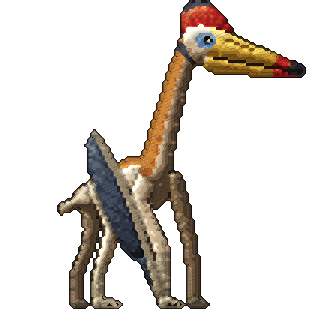
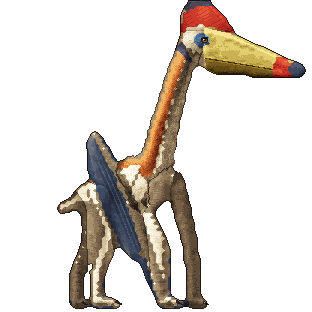
Standing Quetzalcoatlus painted in HD; pterosaur lower beaks
The slate membrane folded up its side in pleats, light through its free
edge; the long neck furred, cream in front and orange behind; the red
crest lit as a plate under its dark crown; the white face with its blue
patch round the eye; the yellow beak over a darker lower beak, tipped
red. The pterosaurs' lower beaks are their drawings' olive again
(BeakSpec.Lower).

The quetzal's head now turns about a cut across the neck below it, so
drawing it back no longer smears the root of the beak.

Changed region(s): [[0.1731, 0.0, 0.9808, 1.0]]

diff --git a/internal/dinopaint/ptero.go b/internal/dinopaint/ptero.go
@@ -49,6 +49,7 @@ func pteroFly() *Species {
 			{Name: "tan", Seeds: []uint32{0xb08a58, 0x8e6840, 0x96754b, 0x86725a, 0x5a4a3a, 0x4c3f31}, Ramp: pteroTan},
 			{Name: "crest", Seeds: []uint32{0xe0541e, 0xf88a2e, 0xffc050, 0x6e2418}, Ramp: pteroCrest, Region: crest},
 			{Name: "beak", Seeds: []uint32{0xf8e69a, 0x6e5420, 0x9c7a2c, 0xffe27a}, Ramp: pteroBeak, Relief: 0.3, Region: beak},
+			{Name: "beakLow", Ramp: pteroBeakLow, Relief: 0.3, Region: Inter(beak, Below(29, 28.05, 41, 28.55)), Over: true, Only: []string{"beak"}},
 		},
 		Recolor: []Recolor{
 			{Region: Union(farWing, nearWing), From: []string{"cream", "tan"}, To: "membrane"}, // the leading edge is painted as bone
@@ -89,7 +90,7 @@ func pteroFlyDetails(farBone, nearBone []float64, farWing, nearWing, crest SDF) 
 		p.Plane(PlaneSpec{Region: crest, Mat: []string{"crest"}, Tilt: 1.1, Angle: 0.08, Gap: 0.9, Lines: 0.06,
 			FromX: 26.5, FromY: 23.5, Fall: 0.03, Seed: 9})
 		p.Beak(BeakSpec{Mat: "beak", Ridge: []float64{28.8, 26.7, 34, 26.8, 40.6, 28.0}, Mouth: []float64{29, 28.05, 34.5, 28.15, 40.4, 28.5},
-			Gloss: 0.2, LowerShadow: 0.32, GrainSeed: 7})
+			Gloss: 0.2, LowerShadow: 0.05, Lower: "beakLow", GrainSeed: 7})
 		p.Eye(EyeSpec{X: 27.4, Y: 27.9, R: 0.55, Iris: pteroEye, Lid: 0.15, Squint: 1.1})
 	}
 }
@@ -148,6 +149,7 @@ func quetzalFly() *Species {
 			{Name: "crown", Seeds: []uint32{0x34323c}, Ramp: quetzalSlate},
 			{Name: "beak", Seeds: []uint32{0xfbe694, 0xeecb5a, 0xd2a436, 0xa87a22, 0x7a5216, 0xffe27a}, Ramp: pteroBeak, Relief: 0.3, Region: beak, Over: true,
 				Only: []string{"cream", "taupe", "orange", "wing"}},
+			{Name: "beakLow", Ramp: pteroBeakLow, Relief: 0.3, Region: Inter(beak, Below(58, 46.1, 83, 46.8)), Over: true, Only: []string{"beak", "cream", "taupe", "orange"}},
 		},
 		Recolor: []Recolor{
 			{Region: Union(farWing, nearWing), From: []string{"cream", "taupe", "orange"}, To: "wing"}, // the leading edge is painted as bone
@@ -181,7 +183,7 @@ func quetzalFly() *Species {
 			p.Plane(PlaneSpec{Region: crest, Mat: []string{"red", "crown"}, Tilt: 0.8, Angle: 0.1, Gap: 1.0, Lines: 0.06,
 				FromX: 57, FromY: 40, Fall: 0.03, Seed: 11})
 			p.Beak(BeakSpec{Mat: "beak", Ridge: []float64{57.6, 43.1, 66, 43.2, 75, 43.9, 82.6, 46.1}, Mouth: []float64{58, 46.1, 68, 46.2, 77, 46.4, 82, 46.7},
-				Gloss: 0.22, LowerShadow: 0.3, GrainSeed: 9})
+				Gloss: 0.22, LowerShadow: 0.05, Lower: "beakLow", GrainSeed: 9})
 			p.Eye(EyeSpec{X: 57, Y: 46.6, R: 0.7, Iris: pteroEye, Lid: 0.15, Squint: 1.1})
 		},
 	}
@@ -222,6 +224,7 @@ func pteroPerch() *Species {
 				Only: []string{"cream", "tan", "grey"}},
 			{Name: "beak", Seeds: []uint32{0xf8e69a, 0xe8c860, 0xc8a240, 0x9c7a2c, 0x6e5420, 0xffd84a}, Ramp: pteroBeak, Relief: 0.3, Region: beak, Over: true,
 				Only: []string{"cream", "tan", "grey"}},
+			{Name: "beakLow", Ramp: pteroBeakLow, Relief: 0.3, Region: Inter(beak, Below(41.6, 13.4, 55, 14.6)), Over: true, Only: []string{"beak", "cream", "tan", "grey"}},
 		},
 		Recolor: []Recolor{
 			{Region: wing, From: []string{"tan", "cream"}, To: "membrane"},                 // the bones are painted again
@@ -260,11 +263,108 @@ func pteroPerch() *Species {
 			p.Plane(PlaneSpec{Region: crest, Mat: []string{"crest"}, Tilt: 0.9, Angle: -0.72, Gap: 1.0, Lines: 0.06,
 				FromX: 37.5, FromY: 8.5, Fall: 0.05, Seed: 15})
 			p.Beak(BeakSpec{Mat: "beak", Ridge: []float64{41.8, 8.8, 46, 10.3, 51, 11.9, 55.4, 14.2}, Mouth: []float64{41.6, 13.4, 47, 14.2, 54.4, 14.6},
-				Gloss: 0.22, LowerShadow: 0.4, GrainSeed: 11})
+				Gloss: 0.22, LowerShadow: 0.05, Lower: "beakLow", GrainSeed: 11})
 			p.Eye(EyeSpec{X: 40.5, Y: 11.3, R: 0.75, Iris: []uint32{0x5a3a08, 0x8e600c, 0xc89216, 0xf0c22e, 0xffda54, 0xffec96}, Lid: 0.18, Squint: 1.15})
 			// The claws of the feet and the hand on the ground.
 			for _, c := range [][4]float64{{26.2, 37.1, 27.7, 37.7}, {28.2, 36.6, 29.6, 37.3}, {39.2, 37.2, 40.6, 37.8}, {37.6, 37.4, 38.6, 38.2}} {
 				p.Claw(c[0], c[1], c[2], c[3], 0.55, 0.15, anzuClaws)
+			}
+		},
+	}
+}
+
+// dinos/quetzal.png, 104 x 104: Quetzalcoatlus on the ground, side on,
+// facing right, as tall as a giraffe: walking on its hind feet and the
+// knuckles of its folded wings, the slate membrane folded up along its
+// side, a long furred neck, cream in front and orange behind, the red
+// crest and its dark crown, a white face with a blue patch round the eye,
+// and the great yellow beak tipped red. Its rig is "quetzal" in
+// internal/client/dinorigs.go: four legs that lean whole from row 86
+// (columns 22-29, 30-40, 49-61, 62-71), the neck bending about (50, 55)
+// and the head about (63, 16), the beak opening about (71.4, 19.6) along
+// the line to (100.5, 24.7).
+
+func init() { Register(quetzal()) }
+
+var quetzalBlue = []uint32{0x1e2838, 0x2a3a52, 0x38506e, 0x4a668a, 0x5e80a4, 0x7698ba, 0x92b2cc, 0xb0cade}
+
+var pteroBeakLow = []uint32{0x1c1408, 0x2a1e0a, 0x3a2a0e, 0x4c3812, 0x604816, 0x765a1c, 0x8c6e24, 0xa2842e}
+
+func quetzal() *Species {
+	farFore := Union(Cone(60, 64, 2.4, 62.6, 82, 1.9), Cone(62.6, 82, 1.9, 64, 99, 1.6), Cone(63.5, 100.5, 1.3, 68.5, 101, 0.8))
+	farHind := Union(Cone(25, 71, 2.4, 25.5, 86, 1.9), Cone(25.5, 86, 1.9, 25.4, 99, 1.7), Cone(25, 100.5, 1.4, 28.2, 101, 0.9))
+	body := Blend(2,
+		Ellipse(44.5, 63, 10.5, 6.6, 0),
+		Cone(46, 58, 4.4, 53, 38, 3.2),
+		Cone(53, 38, 3.2, 61, 19, 2.6),
+		Ellipse(64.5, 13.5, 4.6, 4.2, 0),
+	)
+	wing := Poly(29.5, 45.5, 31.5, 44.5, 34.5, 49, 38, 56, 41.5, 62, 45, 70, 48.5, 79, 50.5, 88, 50.4, 96, 47.5, 96, 44.5, 88, 40, 80, 36, 73, 33, 64, 31, 56, 29.4, 50)
+	nearHind := Union(Cone(33, 65, 3.3, 32.6, 84, 2.3), Cone(32.6, 84, 2.3, 32.3, 98, 1.9), Cone(32.4, 100, 1.5, 39.4, 100.6, 0.9))
+	nearFore := Union(Cone(52.5, 62, 3.4, 51.8, 80, 2.8), Cone(51.8, 80, 2.8, 53, 97, 2.5), Cone(53, 99.5, 2, 59.6, 100.6, 1.0))
+	crest := Poly(59, 2.6, 62, 0.8, 66.5, 0.4, 70, 2.6, 74, 6.4, 76, 9.8, 73.6, 10.8, 66, 10.2, 60.4, 10.4, 59.2, 7)
+	beak := Poly(68, 9.2, 76, 11, 84, 14, 92, 17.6, 98, 20, 103.6, 23, 103.4, 25.6, 96, 27, 84, 26.6, 74, 25.6, 69, 23, 67.6, 17)
+	return &Species{
+		Name:        "quetzal",
+		GuideDetail: 0.4,
+		Ink:         30,
+		Materials: []Material{
+			{Name: "wing", Seeds: []uint32{0x2a3a4e, 0x313842, 0x333b48, 0x3f4754, 0x424c5c, 0x46505e, 0x555f6a, 0x5a6678, 0x2e3540, 0x2f3644, 0x252a35, 0x212630, 0x20242f, 0x242932},
+				Ramp: quetzalWing, Relief: 0.05},
+			{Name: "blue", Seeds: []uint32{0x5c7ea4, 0x7a8898, 0x86a8c8, 0x5f6a77}, Ramp: quetzalBlue},
+			{Name: "cream", Seeds: []uint32{0xfbf3df, 0xe9dabb, 0xd8caa8, 0xcdb594, 0xb8a888, 0xb0aa9c, 0xa39e91}, Ramp: pteroCream},
+			{Name: "taupe", Seeds: []uint32{0xa6896a, 0x978d76, 0x978e7a, 0x94846a, 0x907f68, 0x8c8370, 0x857660, 0x81765f, 0x7b6d59, 0x6e604c, 0x685c4a,
+				0x605645, 0x5d5243, 0x564c3e, 0x4d4335, 0x4a4034, 0xa39983, 0x7a6044, 0x4e3c2a, 0x4f3e2c, 0x493a29}, Ramp: quetzalTaupe},
+			{Name: "orange", Seeds: []uint32{0xcf873c, 0xae6228, 0x915e2a, 0x875827, 0x86451e}, Ramp: quetzalOrng},
+			{Name: "red", Seeds: []uint32{0xe85236, 0xf88a5c, 0xc22a22, 0xc3452d, 0xa3231d, 0x90181a, 0x791416, 0x5e0e12, 0x4f0c0f, 0xd0744d}, Ramp: quetzalRed},
+			{Name: "crown", Seeds: []uint32{0x34323c, 0x4c4a56}, Ramp: quetzalSlate},
+			{Name: "beak", Seeds: []uint32{0xfbe694, 0xfff0a0, 0xeecb5a, 0xd2a436, 0xa87a22, 0x7a5216}, Ramp: pteroBeak, Relief: 0.3, Region: beak, Over: true,
+				Only: []string{"cream", "taupe", "orange", "blue"}},
+			{Name: "beakLow", Ramp: pteroBeakLow, Relief: 0.3, Region: Inter(beak, Below(71.4, 19.9, 104, 25.4)), Over: true,
+				Only: []string{"beak", "cream", "taupe", "orange"}},
+			{Name: "patch", Ramp: quetzalBlue, Region: Ellipse(67.2, 13.3, 2.7, 2.1, 0), Over: true, Only: []string{"cream", "taupe", "beak", "blue"}},
+		},
+		Recolor: []Recolor{
+			{Region: Circle(68.2, 13.3, 1.3), From: []string{"beak", "cream", "taupe"}, To: "blue"}, // the eye is painted again
+			{Region: Poly(0, 30, 104, 30, 104, 104, 0, 104), From: []string{"crown", "blue"}, To: "wing"},
+		},
+		Parts: []Part{
+			{Name: "farFore", Shape: farFore, Far: true, Round: 1.8, Soft: 0.6, Scale: 0.6},
+			{Name: "farHind", Shape: farHind, Far: true, Round: 1.8, Soft: 0.6, Scale: 0.6},
+			{Name: "body", Shape: body, Round: 4.2, Soft: 0.8, Muscles: []Muscle{
+				Mu(45, 62, 7, 4.5, 0, 0.9),       // the chest
+				Mu(52, 40, 2.4, 9, 0.35, 0.6),    // the neck
+				Mu(64.6, 12.6, 3.2, 2.6, 0, 0.6), // the head
+			}},
+			{Name: "crest", Shape: crest, Round: 1.2, Soft: 0.5, Scale: 0.6},
+			{Name: "beak", Shape: beak, Round: 1.6, Soft: 0.5, Scale: 0.5},
+			{Name: "wing", Shape: wing, Round: 2.6, Soft: 0.8, Scale: 0.8, Muscles: []Muscle{Mu(37, 62, 3, 9, -0.45, 0.7)}},
+			{Name: "nearHind", Shape: nearHind, Round: 2, Soft: 0.6, Scale: 0.6, Muscles: []Muscle{Mu(33, 68, 2.4, 3.4, 0, 0.6)}},
+			{Name: "nearFore", Shape: nearFore, Round: 2.2, Soft: 0.6, Scale: 0.6, Muscles: []Muscle{Mu(52.4, 66, 2.6, 4, 0, 0.6)}},
+		},
+		Skin: Skin{Flank: 1.1, Back: 1.3, Belly: 1.0, BackDepth: 1, BellyDepth: 1, Relief: 0.6, Seed: 67},
+		Folds: []Fold{
+			{Pts: []float64{30.5, 50, 37.5, 66, 45.5, 86}, N: 3, DX: 1.2, DY: -0.4, Depth: 1.0}, // the folded membrane's pleats
+			{Pts: []float64{25, 88, 27, 88}, N: 4, DY: 3, Depth: 0.6},                           // the legs' scales, in rings
+			{Pts: []float64{31, 88, 34, 88}, N: 4, DY: 3, Depth: 0.6},
+			{Pts: []float64{50.5, 88, 55.5, 88}, N: 4, DY: 3, Depth: 0.6},
+		},
+		Details: func(p *Painter) {
+			p.Plumage(&Plumage{Seed: 37, Edge: 0.35, Tracts: []Tract{
+				{Name: "fur", Region: Poly(36, 55, 46, 50, 52, 30, 58.5, 17, 63, 19, 60, 34, 58, 52, 61, 62, 56, 70, 36, 70), Parts: []string{"body"},
+					Flow: Along(61.5, 17, 56, 30, 51.5, 42, 47.5, 55, 42, 64, 36, 68), Len: 1.5, Wid: 0.65, Hair: true, Relief: 0.8, Fluff: 0.3, Snap: true},
+			}})
+			p.Membrane(MembraneSpec{Region: wing, Mat: []string{"wing"},
+				Fibres: Along(48, 95, 41, 76, 34, 59, 30.4, 46), Gap: 1.0, Fibre: 0.05, Flat: 0.2,
+				Glow: 0.45, GlowW: 1.6, GlowRamp: quetzalGlow, Free: Poly(20, 40, 33, 40, 46, 96, 20, 96),
+				Seed: 17})
+			p.Plane(PlaneSpec{Region: crest, Mat: []string{"red", "crown"}, Tilt: 0.7, Angle: -0.5, Gap: 1.2, Lines: 0.06,
+				FromX: 68, FromY: 4, Fall: 0.025, Seed: 19})
+			p.Beak(BeakSpec{Mat: "beak", Ridge: []float64{68.5, 9.6, 76, 11.6, 84, 14.8, 92, 18.4, 101, 22.6}, Mouth: []float64{71.4, 19.9, 86, 22.3, 100, 24.8},
+				Gloss: 0.24, LowerShadow: 0.1, Lower: "beakLow", GrainSeed: 13})
+			p.Eye(EyeSpec{X: 68.2, Y: 13.3, R: 0.85, Iris: pteroEye, Lid: 0.18, Squint: 1.15})
+			for _, c := range [][4]float64{{27.6, 100.8, 29.2, 101.6}, {38.8, 100.6, 40.6, 101.4}, {59, 100.6, 60.8, 101.4}, {68, 100.8, 69.6, 101.6}} {
+				p.Claw(c[0], c[1], c[2], c[3], 0.6, 0.15, anzuClaws)
 			}
 		},
 	}

diff --git a/internal/dinopaint/beak.go b/internal/dinopaint/beak.go
@@ -16,13 +16,17 @@ type BeakSpec struct {
 	TipDark     float64 // how much darker the tip is (0: 0.12)
 	GrainSeed   uint32
 	LowerShadow float64 // how much darker the lower beak is (0: 0.08)
+	Lower       string  // the lower beak's own material, if it has one
 }
 
 // Beak paints keratin over the lit beak: a gloss along the ridge, fine
 // grain running to the tip, the mouth's line dark with the lower beak's
 // lit edge under it, a darker tip, and the nostril.
 func (p *Painter) Beak(b BeakSpec) {
-	m := p.MatID(b.Mat)
+	m, lowM := p.MatID(b.Mat), -2
+	if b.Lower != "" {
+		lowM = p.MatID(b.Lower)
+	}
 	gloss := b.Gloss
 	if gloss == 0 {
 		gloss = 0.22
@@ -40,7 +44,7 @@ func (p *Painter) Beak(b BeakSpec) {
 	for py := 0; py < p.H; py++ {
 		for px := 0; px < p.W; px++ {
 			i := py*p.W + px
-			if !p.In[i] || p.Mat[i] != m || p.Pro[i] {
+			if !p.In[i] || (p.Mat[i] != m && p.Mat[i] != lowM) || p.Pro[i] {
 				continue
 			}
 			edge := false
@@ -76,7 +80,7 @@ func (p *Painter) Beak(b BeakSpec) {
 				continue // the outline stays
 			}
 			p.Val[i] = v
-			p.Out[i] = p.Tone(m, v)
+			p.Out[i] = p.Tone(p.Mat[i], v)
 			p.Pro[i] = true
 		}
 	}

diff --git a/internal/client/dinorigs.go b/internal/client/dinorigs.go
@@ -163,7 +163,7 @@ var dinoRigs = map[string]dinoRig{
 		file: "quetzal", stride: 3,
 		// The near hind leg, the near wing it walks on, the far wing, the far hind leg.
 		legs: []rigLimb{{x0: 30, x1: 40, top: 86}, {x0: 49, x1: 61, top: 86}, {x0: 62, x1: 71, top: 86}, {x0: 22, x1: 29, top: 86}},
-		head: rigPart{pivot: rigPt{63, 16}, dir: headUp(math.Pi / 4), maxY: 40},
+		head: rigPart{pivot: rigPt{57, 30}, dir: headUp(1.19), maxY: 40}, // across the neck, far enough down that its joint is clear of the beak
 		neck: rigPart{pivot: rigPt{50, 55}, dir: headUp(1.0), maxY: 60},
 		jaw:  [2]rigPt{{71.4, 19.6}, {100.5, 24.7}},
 		gait: []float64{0, 0.25, 0.75, 0.5}, far: 0b1100,
